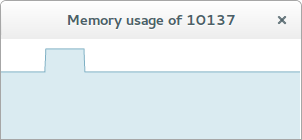
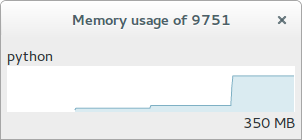
Make it possible to launch a new command

Changed region(s): [[0.0, 0.3429, 1.0, 0.8], [0.2086, 0.0857, 0.7748, 0.2286], [0.8046, 0.8286, 0.9834, 0.9143]]

diff --git a/memgraphinator.py b/memgraphinator.py
@@ -1,7 +1,8 @@
 #!/usr/bin/env python
 import signal
-import sys
 import os
+import argparse
+import subprocess
 
 import gi
 gi.require_version('Gtk', '3.0')
@@ -133,13 +134,15 @@ class ProcessGraph(Gtk.VBox):
         self.label.set_label(get_command_line(new_pid))
 
     def add_point(self, value):
-        self.graph.add_point(value)
-        self.size_label.set_label(format_size(value))
+        if value is not None:
+            self.graph.add_point(value)
+            self.size_label.set_label(format_size(value))
 
 
 class MainWindow(Gtk.Window):
 
     _pid = None
+    exit_when_process_dies = False
 
     def __init__(self, pid):
         super(MainWindow, self).__init__()
@@ -182,8 +185,14 @@ class MainWindow(Gtk.Window):
         GObject.timeout_add(100, self.poll)
 
     def poll(self):
-        self.graph.add_point(get_mem_usage(self.pid))
-        return True
+        value = get_mem_usage(self.pid)
+        if value is None:
+            if self.exit_when_process_dies:
+                Gtk.main_quit()
+            return False
+        else:
+            self.graph.add_point(value)
+            return True
 
     def select_process(self, target):
         process_selector_dialog = ProcessSelector(self)
@@ -272,11 +281,23 @@ class ProcessSelector(Gtk.Dialog):
 
 
 def main():
-    if len(sys.argv) < 2:
-        pid = None
+    parser = argparse.ArgumentParser(description="Graph process memory usage")
+    parser.add_argument('command', nargs='*',
+                        help='Command to execute')
+    parser.add_argument('-p', '--pid', type=int, help='Existing process to monitor')
+    parser.add_argument('--exit-when-process-dies', action='store_true',
+                        help='Exit when monitored process dies')
+    args = parser.parse_args()
+    if args.command and len(args.command) == 1 and args.command[0].isdigit():
+        pid = int(args.command[0])
+    elif args.pid:
+        pid = args.pid
+    elif args.command:
+        pid = subprocess.Popen(args.command).pid
     else:
-        pid = int(sys.argv[1])
+        pid = None
     win = MainWindow(pid)
+    win.exit_when_process_dies = args.exit_when_process_dies
     win.show_all()
     signal.signal(signal.SIGINT, signal.SIG_DFL)
     Gtk.main()

diff --git a/README.rst b/README.rst
@@ -13,7 +13,22 @@ to see more or less.
 
 Usage::
 
-    ./memgraphinator.py [pid]
+    ./memgraphinator.py [--exit-when-process-dies]
+    ./memgraphinator.py [--exit-when-process-dies] [-p|--pid] PID
+    ./memgraphinator.py [--exit-when-process-dies] [--] command [args ...]
+    ./memgraphinator.py -h|--help
+
+
+Graph process memory usage
+
+positional arguments:
+  command [args]        Command to execute and monitor
+
+optional arguments:
+  -h, --help            Show this help message and exit
+  -p PID, --pid PID     Specify existing process to monitor
+  --exit-when-process-dies
+                        Exit when monitored process dies
 
 
 Requirements
@@ -29,8 +44,6 @@ Requirements
 Future plans
 ------------
 
-- Show current and peak memory usage numbers below the graph
-- Show process name and command-line arguments above the graph
+- Show memory usage number somewhere
 - Changeable zoom level (1px = 0.1s, 1s, 10s, entire graph)
-- Searching/filtering in the process picker
 - Ability to watch multiple processes simultaneously
